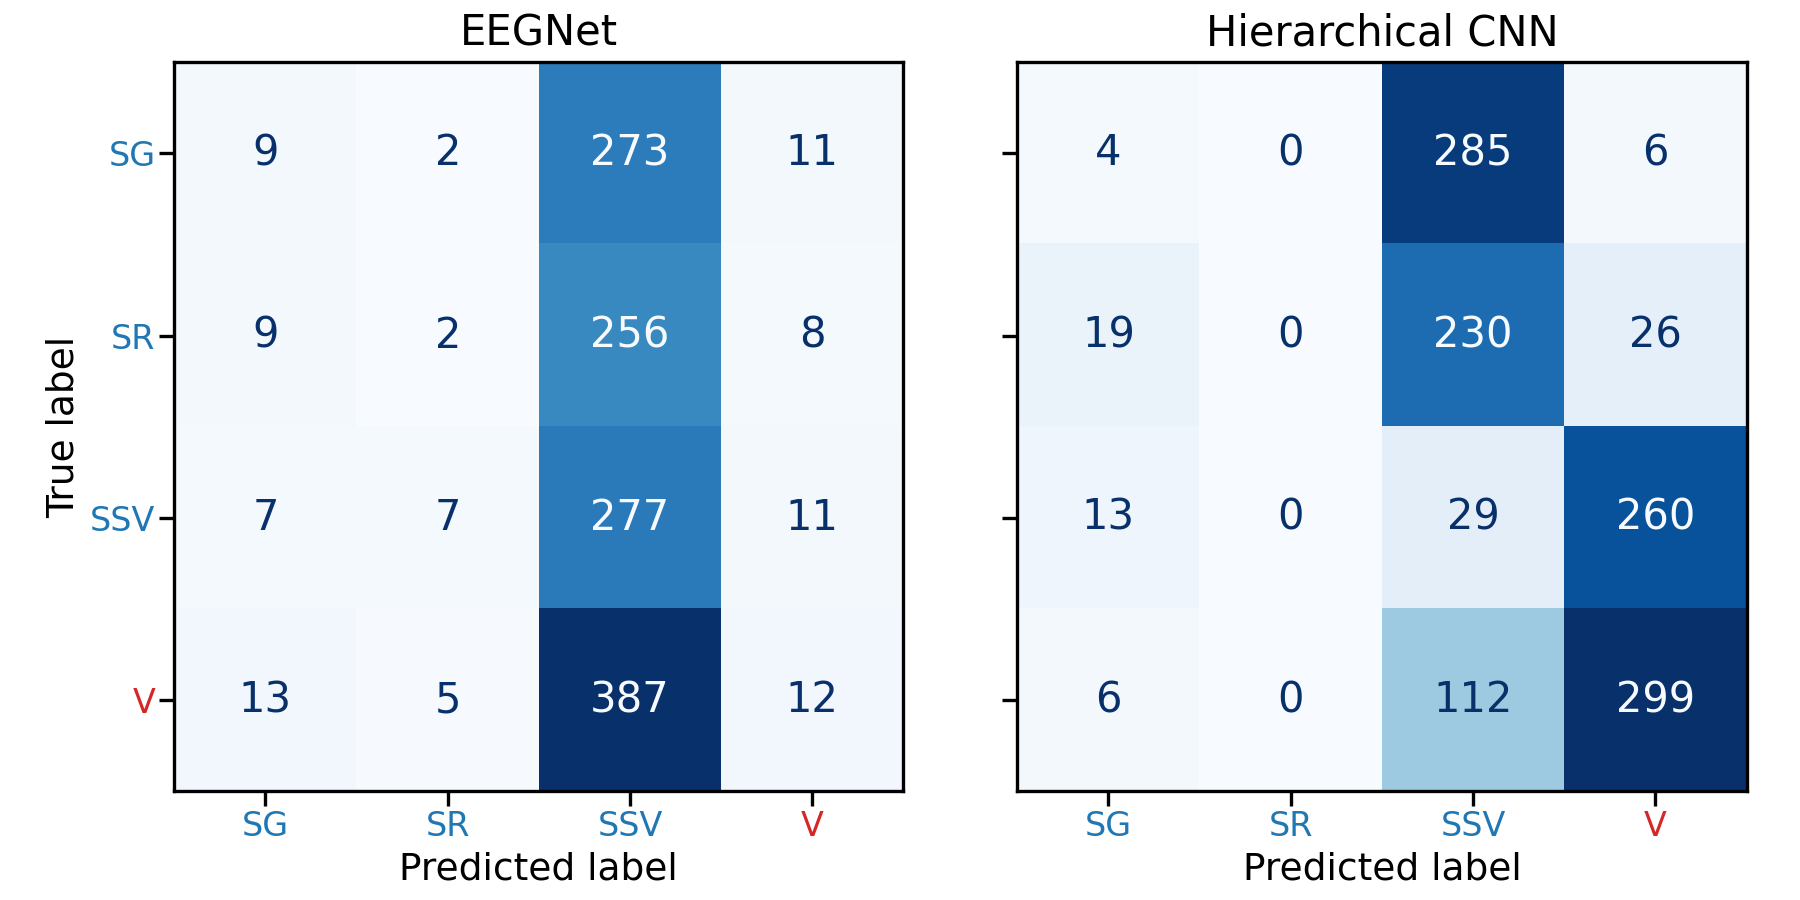
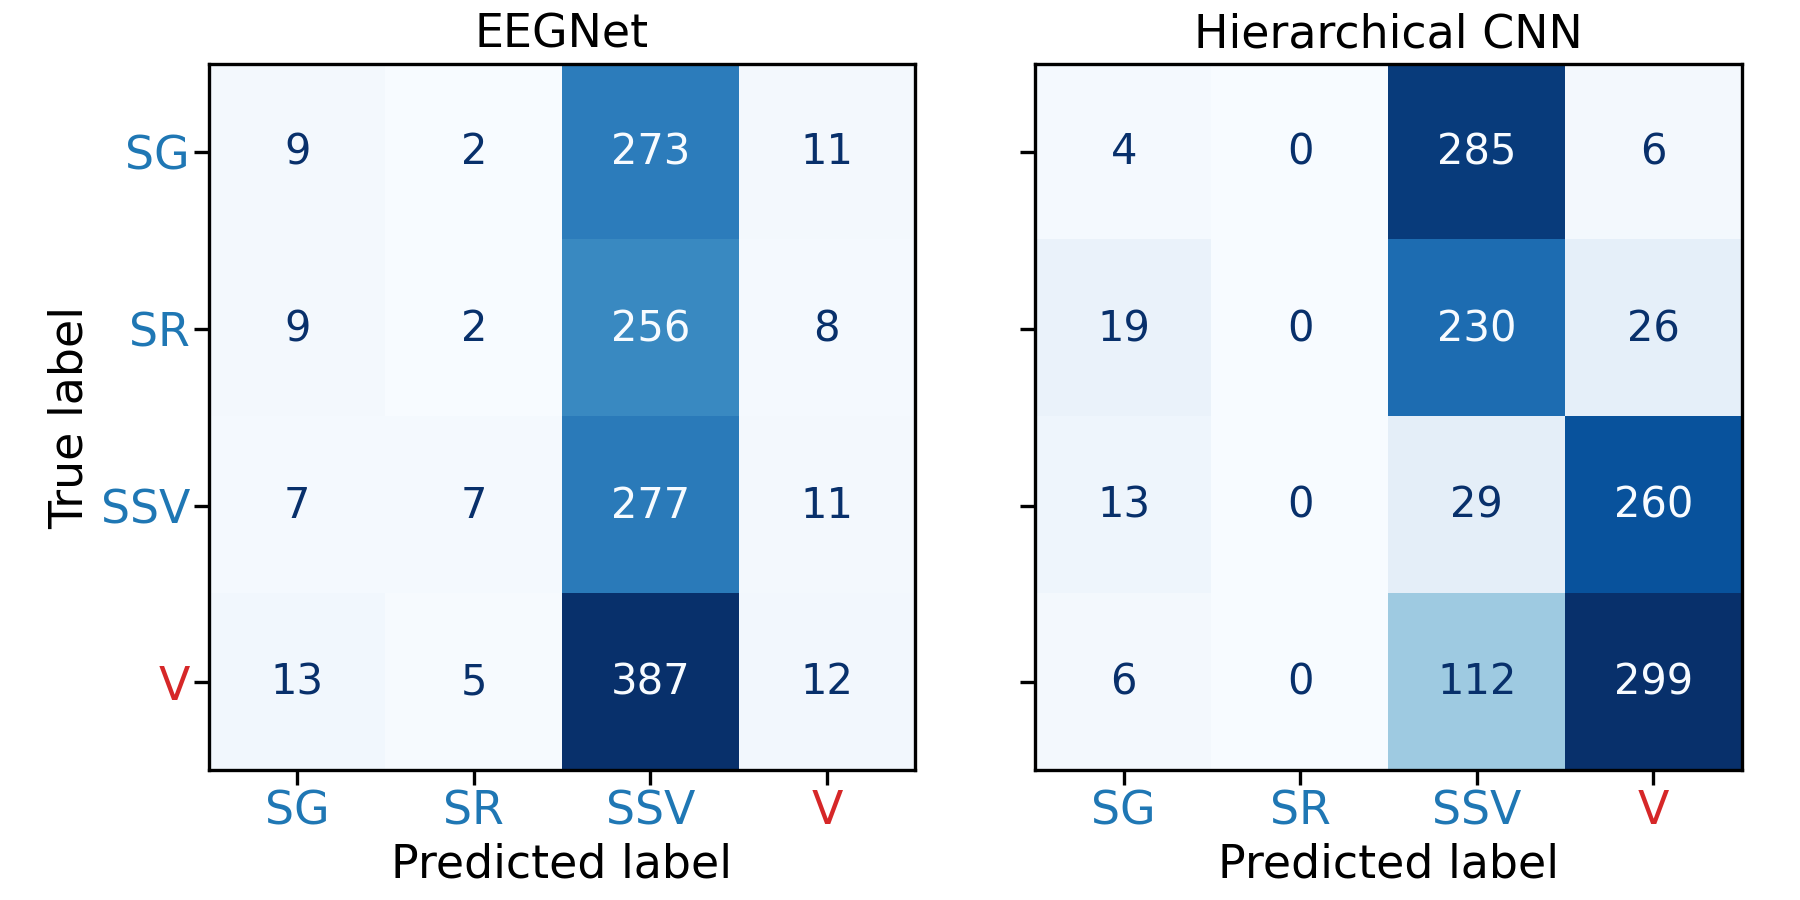
CMs - Improved text visibility

diff --git a/scripts/visualization/cms.py b/scripts/visualization/cms.py
@@ -65,7 +65,7 @@ def plot_confusion_matrices_side_by_side(
     save_path=None,
     normalize=False,
 ):
-    short_classes = _short_class_labels(classes)
+    short_classes = ["SG", "SR", "SSV", "V"]
     class_colors = [_class_group_color(class_name) for class_name in classes]
 
     cm1 = np.array(confusion_1)
@@ -93,10 +93,10 @@ def plot_confusion_matrices_side_by_side(
         colorbar=False,
     )
 
-    axes[0].set_title(title_1, pad=4, fontsize=10)
-    axes[0].set_xlabel("Predicted label", labelpad=2, fontsize=9)
-    axes[0].set_ylabel("True label", labelpad=2, fontsize=9)
-    axes[0].tick_params(axis="both", labelsize=8, pad=1)
+    axes[0].set_title(title_1, pad=4, fontsize=11)
+    axes[0].set_xlabel("Predicted label", labelpad=2, fontsize=11)
+    axes[0].set_ylabel("True label", labelpad=2, fontsize=11)
+    axes[0].tick_params(axis="both", labelsize=11, pad=1)
 
     disp2 = ConfusionMatrixDisplay(
         confusion_matrix=cm2,
@@ -110,10 +110,10 @@ def plot_confusion_matrices_side_by_side(
         colorbar=False,
     )
 
-    axes[1].set_title(title_2, pad=4, fontsize=10)
-    axes[1].set_xlabel("Predicted label", labelpad=2, fontsize=9)
+    axes[1].set_title(title_2, pad=4, fontsize=11)
+    axes[1].set_xlabel("Predicted label", labelpad=2, fontsize=11)
     axes[1].set_ylabel("")
-    axes[1].tick_params(axis="both", labelsize=8, pad=1)
+    axes[1].tick_params(axis="both", labelsize=11, pad=1)
     axes[1].tick_params(axis="y", labelleft=False)
 
 
@@ -140,19 +140,6 @@ def plot_confusion_matrices_side_by_side(
     plt.show()
 
 
-def _short_class_labels(classes):
-    labels = []
-    for class_name in classes:
-        parts = class_name.replace("-", "_").split("/")
-        if len(parts) > 1:
-            labels.append("".join(part[0].upper() for part in parts[:-1]) + _initials(parts[-1]))
-        else:
-            labels.append(_initials(parts[0]))
-    return labels
-
-
-def _initials(text):
-    return "".join(part[0].upper() for part in text.split("_") if part)
 
 
 def _color_tick_labels(ax, colors, color_y):
@@ -165,9 +152,12 @@ def _color_tick_labels(ax, colors, color_y):
 
 
 def _class_group_color(class_name):
-    if class_name.startswith("smartphone"):
-        return "tab:blue"
-    return "tab:red"
+    return {
+        "smartphone/gaming": "tab:blue",
+        "smartphone/reading": "tab:blue",
+        "smartphone/short_videos": "tab:blue",
+        "video": "tab:red",
+    }[class_name]
 
 def main():
     EEG_PATH = Path("outputs/eegnet_baseline/")
